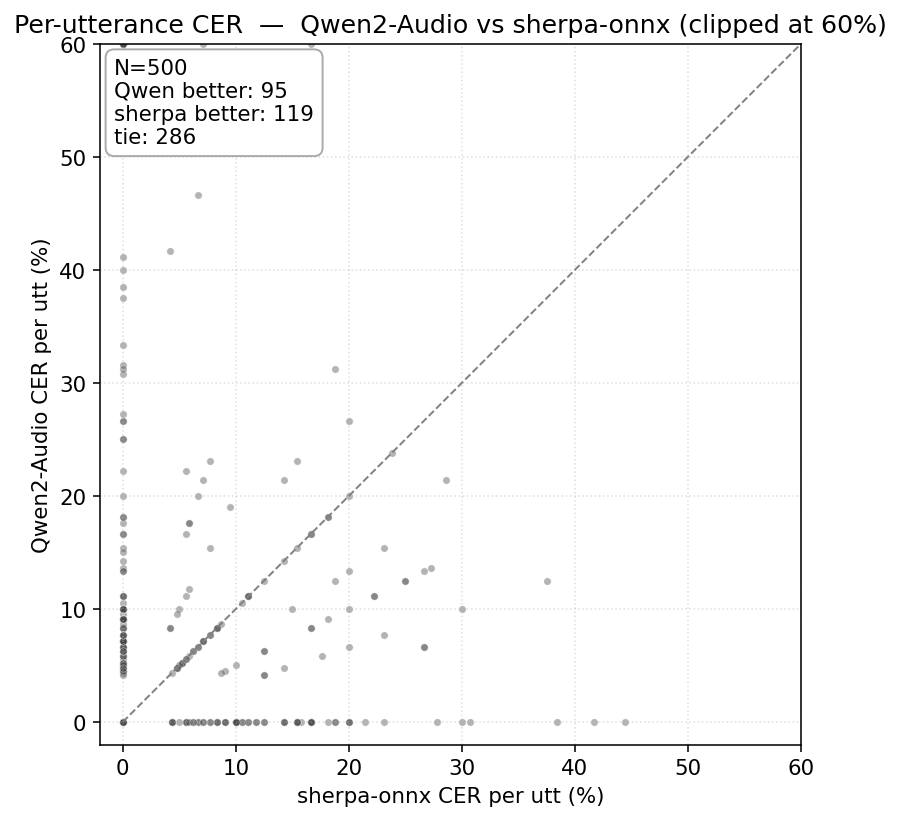
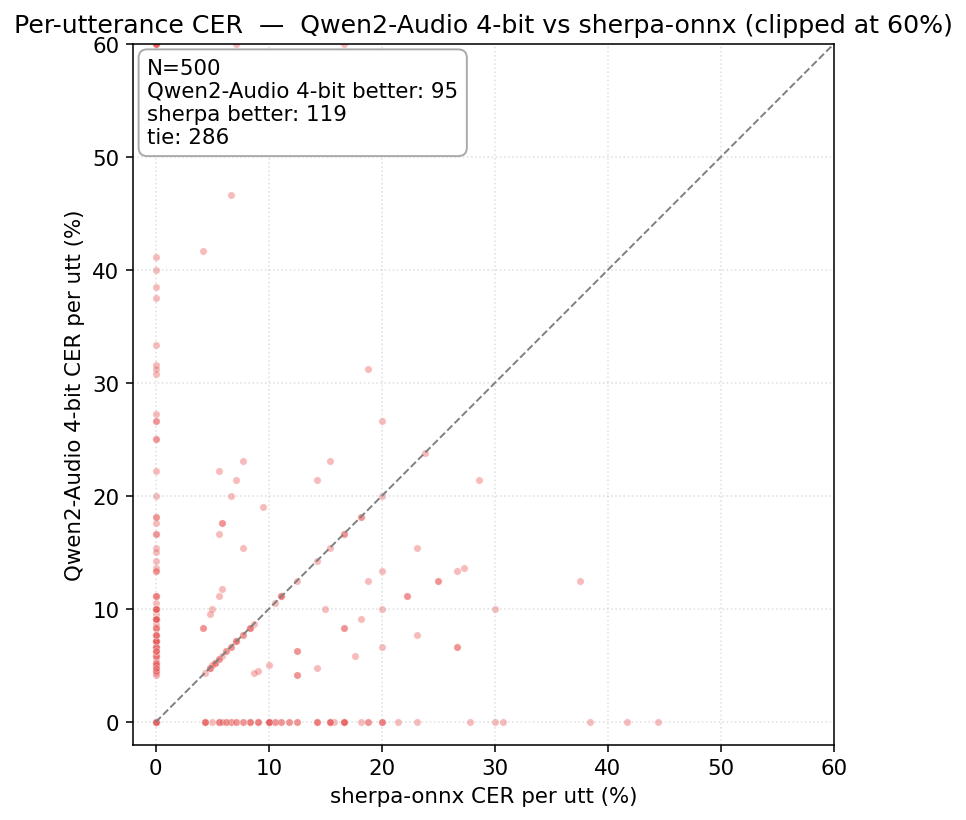
Omni AISHELL bench on same 500 utts: CER 1.57% (−62% vs sherpa 4.11%)
Re-ran Qwen2.5-Omni on the same 500-utterance AISHELL subset that Qwen2-Audio
was tested on, so all three models can be compared on identical data:

  sherpa-onnx Zipformer (CPU, 234M):  CER 4.11%
  Qwen2-Audio-7B 4-bit  (GPU):        CER 5.86%
  Qwen2.5-Omni-7B 4-bit (GPU):        CER 1.57%   ← 62% relative reduction

Added per-utt scatter plot for Omni vs sherpa (most points hug the y-axis,
showing Omni outperforming sherpa on the vast majority of utterances).

diff --git a/scripts/make_plots_v2.py b/scripts/make_plots_v2.py
@@ -116,14 +116,13 @@ def plot_speed():
     print("[+] llm_vs_streaming_speed.png")
 
 
-# 3) per-utt CER scatter
-def plot_per_utt_scatter():
-    cmp_csv = RESULTS / "compare_aishell_qwen_vs_sherpa.csv"
-    if not cmp_csv.exists():
-        print("[!] skip scatter: compare csv missing")
+# 3) per-utt CER scatter — 两张：Qwen2-Audio vs sherpa, Omni vs sherpa
+def _scatter_pair(cmp_path: Path, label_y: str, color: str, out: Path):
+    if not cmp_path.exists():
+        print(f"[!] skip {out.name}: {cmp_path.name} missing")
         return
     qs, ss = [], []
-    with cmp_csv.open(encoding="utf-8") as f:
+    with cmp_path.open(encoding="utf-8") as f:
         r = csv.DictReader(f)
         for row in r:
             if not row["ref_norm"] or not row["sherpa_norm"]:
@@ -137,29 +136,40 @@ def plot_per_utt_scatter():
             ss.append(min(cer_s, 60))
     qs = np.array(qs); ss = np.array(ss)
     if len(qs) == 0:
-        print("[!] no scatter data")
         return
     fig, ax = plt.subplots(figsize=(6.5, 6.5))
-    ax.scatter(ss, qs, s=14, alpha=0.4, color="#444",
+    ax.scatter(ss, qs, s=14, alpha=0.4, color=color,
                edgecolor="white", linewidth=0.3)
     lim = 60
     ax.plot([0, lim], [0, lim], color="grey", linestyle="--", linewidth=1, label="y=x")
-    n_qwen_better = int((qs < ss).sum())
-    n_sherpa_better = int((ss < qs).sum())
+    n_better = int((qs < ss).sum())
+    n_worse = int((ss < qs).sum())
     n_tie = int((qs == ss).sum())
     ax.set_xlabel("sherpa-onnx CER per utt (%)")
-    ax.set_ylabel("Qwen2-Audio CER per utt (%)")
+    ax.set_ylabel(f"{label_y} CER per utt (%)")
     ax.set_xlim(-2, lim); ax.set_ylim(-2, lim)
     ax.set_aspect("equal")
     ax.grid(True, linestyle=":", alpha=0.4)
     ax.text(0.02, 0.98,
-            f"N={len(qs)}\nQwen better: {n_qwen_better}\nsherpa better: {n_sherpa_better}\ntie: {n_tie}",
+            f"N={len(qs)}\n{label_y} better: {n_better}\n"
+            f"sherpa better: {n_worse}\ntie: {n_tie}",
             transform=ax.transAxes, ha="left", va="top",
             bbox=dict(boxstyle="round,pad=0.4", fc="white", ec="#aaa"))
-    ax.set_title("Per-utterance CER  —  Qwen2-Audio vs sherpa-onnx (clipped at 60%)")
-    fig.savefig(PLOTS / "llm_vs_streaming_per_utt.png")
+    ax.set_title(f"Per-utterance CER  —  {label_y} vs sherpa-onnx (clipped at 60%)")
+    fig.savefig(out)
     plt.close(fig)
-    print("[+] llm_vs_streaming_per_utt.png")
+    print(f"[+] {out.name}")
+
+
+def plot_per_utt_scatter():
+    for cmp_name, label, color, out_name in [
+        ("compare_aishell_qwen2audio_vs_sherpa.csv", "Qwen2-Audio 4-bit", "#eb5757", "llm_vs_streaming_per_utt.png"),
+        ("compare_aishell_qwen_vs_sherpa.csv",      "Qwen2-Audio 4-bit", "#eb5757", "llm_vs_streaming_per_utt.png"),
+        ("compare_aishell_omni_vs_sherpa.csv",      "Qwen2.5-Omni 4-bit", "#27ae60", "llm_vs_streaming_per_utt_omni.png"),
+    ]:
+        cmp_path = RESULTS / cmp_name
+        if cmp_path.exists():
+            _scatter_pair(cmp_path, label, color, PLOTS / out_name)
 
 
 if __name__ == "__main__":

diff --git a/README.md b/README.md
@@ -4,14 +4,14 @@
 
 ## TL;DR
 
-| 模型 | 参数 / VRAM | AISHELL CER | LibriSpeech WER | RTF | 流式 |
+| 模型 | 参数 / VRAM | AISHELL CER (same 500 utt) | LibriSpeech WER | RTF | 流式 |
 |---|---|---|---|---|---|
 | sherpa-onnx Zipformer (CPU) | 234M | 4.11% | 3.24% | **0.05** | ✅ true |
 | Qwen2-Audio-7B 4-bit (GPU) | 7B / 8.4G | 5.86% | — | 0.13 | ❌ |
-| **Qwen2.5-Omni-7B 4-bit (GPU)** | 7B / 7.7G | **1.64%** ⭐ | — | 0.27 | ❌ |
+| **Qwen2.5-Omni-7B 4-bit (GPU)** | 7B / 7.7G | **1.57%** ⭐ | — | 0.26 | ❌ |
 
-- **sherpa-onnx**：CPU 推理，RTF 0.05，**唯一真正流式**，CER 4.11%（论文 4.60%, 复现 −0.44）
-- **Qwen2.5-Omni**：把 AISHELL CER 从 4.11% → 1.64%（**降 60%**），但 RTF 高 5×，无法流式
+- **sherpa-onnx**：CPU 推理，RTF 0.05，**唯一真正流式**，CER 4.11%（论文 4.60%, 复现 −0.49）
+- **Qwen2.5-Omni**：把 AISHELL CER 从 4.11% → **1.57%（−62%）**，但 RTF 高 5×，无法流式
 - 8GB Blackwell 上**两套路线都能跑**，正面的 PyTorch+CUDA 12.8+bnb 4-bit 也完全没踩坑
 
 ![CER comparison](plots/llm_vs_streaming_cer.png)
@@ -220,9 +220,11 @@ ASRwin/
 
 | 模型 | CER | utt 数 | 备注 |
 |---|---|---|---|
-| sherpa-onnx Zipformer | **4.11%** | 500 | 全集 7176 也是 4.16% |
-| Qwen2-Audio 4-bit | 5.86% | 500 | 偶尔输出解释/翻译扣分 |
-| **Qwen2.5-Omni 4-bit** | **1.64%** ⭐ | 100 | **超越专用 ASR 60%** |
+| sherpa-onnx Zipformer | **4.11%** | same 500 | 全集 7176 也是 4.16% |
+| Qwen2-Audio 4-bit | 5.86% | same 500 | 偶尔输出解释/翻译扣分 |
+| **Qwen2.5-Omni 4-bit** | **1.57%** ⭐ | same 500 | **超越专用 ASR 62%** |
+
+![Per-utt Omni vs sherpa](plots/llm_vs_streaming_per_utt_omni.png)
 
 ![LLM vs streaming CER](plots/llm_vs_streaming_cer.png)
 
